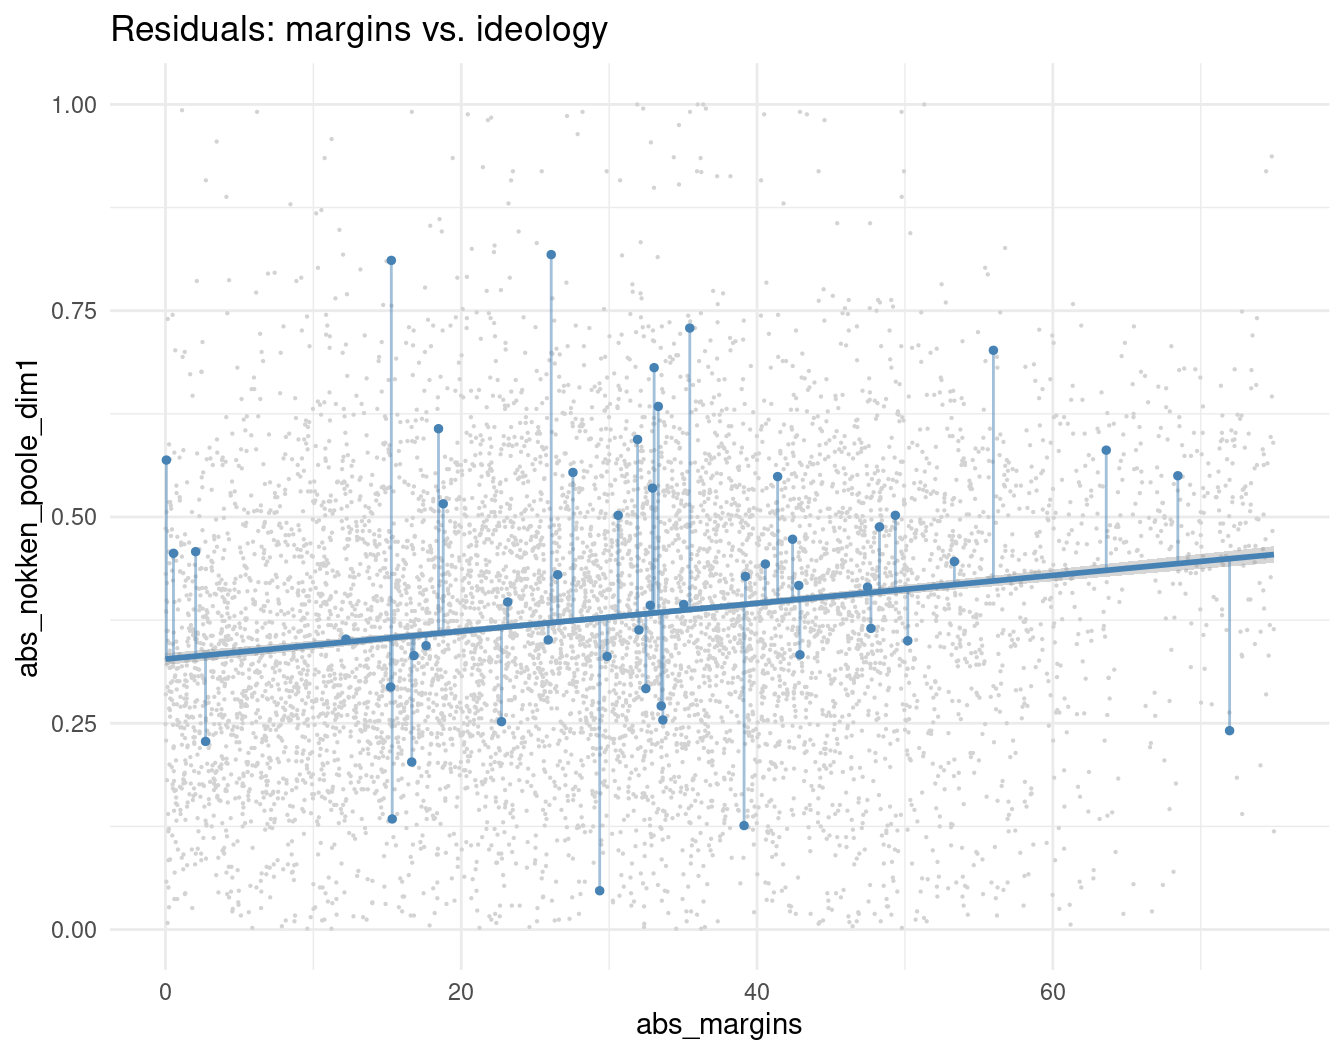
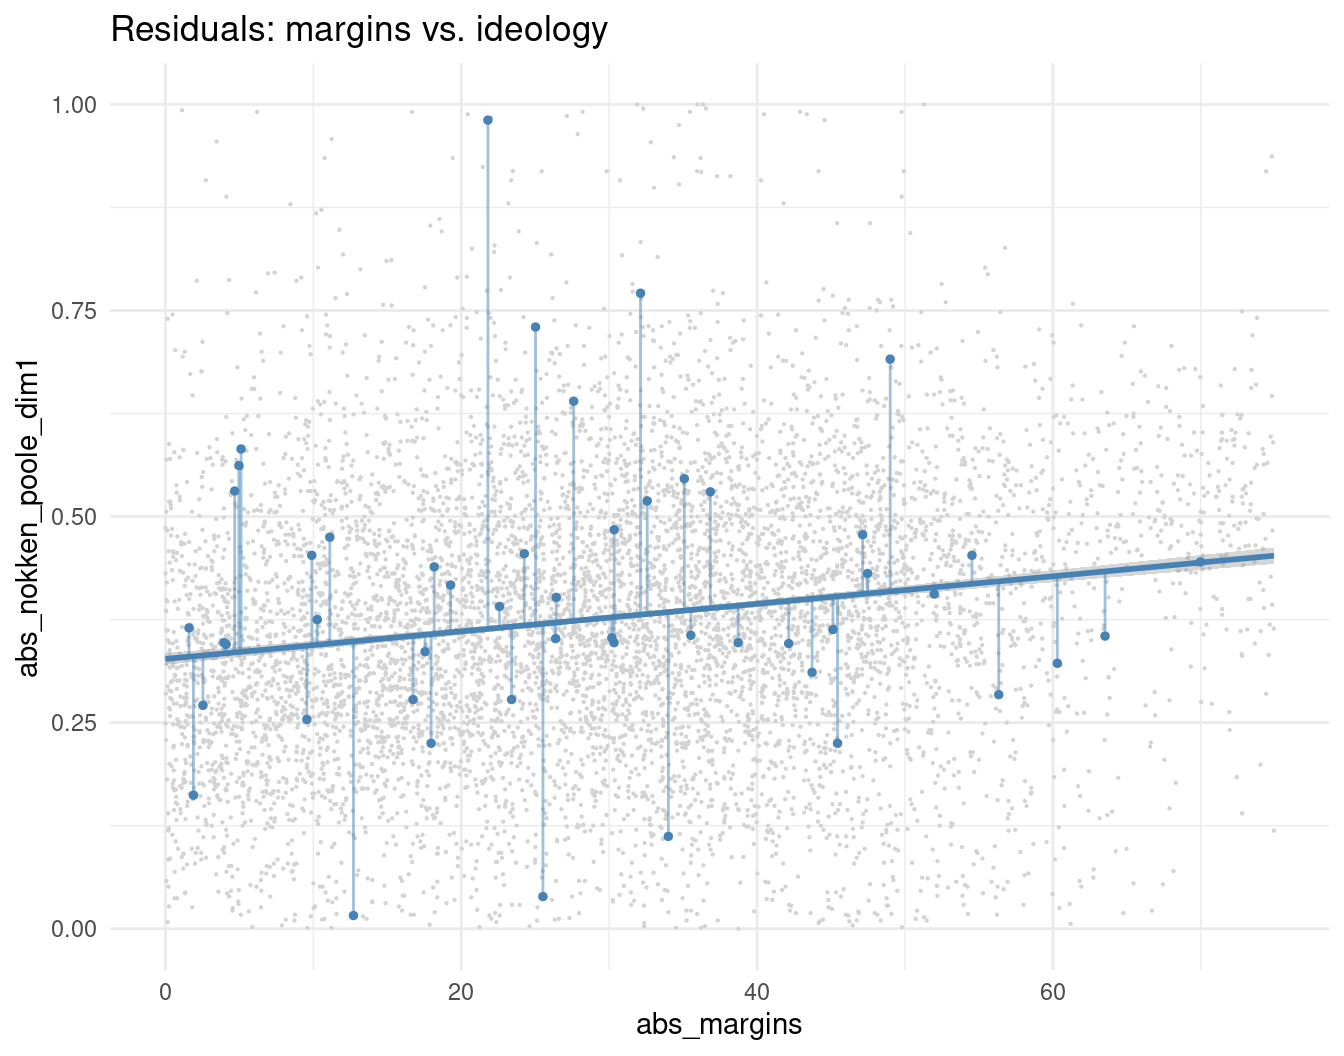
re

diff --git a/content/post/2020-07-19-and-other-long-serving-members-of-congress.html b/content/post/2020-07-19-and-other-long-serving-members-of-congress.html
@@ -53,7 +53,7 @@ menu: ''
 house_members &lt;- Rvoteview::download_metadata(type = &#39;members&#39;,
                                               chamber = &#39;house&#39;,
                                               congress = &#39;all&#39;) </code></pre>
-<pre><code>## [1] &quot;/tmp/RtmplXkuUB/Hall_members.csv&quot;</code></pre>
+<pre><code>## [1] &quot;/tmp/RtmpHSN5zx/Hall_members.csv&quot;</code></pre>
 <pre class="r"><code>x116 &lt;- house_members %&gt;%
   filter(congress == 116, chamber == &#39;House&#39;) %&gt;%
   select(icpsr, chamber)</code></pre>
@@ -67,7 +67,13 @@ house_members &lt;- Rvoteview::download_metadata(type = &#39;members&#39;,
   
   mutate(year = 2019 - (116-congress)*2,
          party_code = ifelse(party_code == 200, &#39;R&#39;, &#39;D&#39;),
-         age = year - born)</code></pre>
+         age = year - born) %&gt;%
+  
+  group_by(congress, state_abbrev) %&gt;%
+  mutate(n = length(district_code)) %&gt;%
+  ungroup() %&gt;%
+  mutate(district_code = ifelse(n == 1, 0, district_code)) %&gt;%
+  select(-n)</code></pre>
 </div>
 <div id="longest-serving-members-of-the-us-house" class="section level2">
 <h2>Longest-serving members of the US House</h2>
@@ -195,7 +201,7 @@ for_scatter %&gt;%
   slice(1) %&gt;%
   group_by(state_abbrev, district_code) %&gt;%
   spread(congress, bioguide_id)</code></pre>
-<p>A sample of the re-election portion of the data set is presented below. The first row summarizes the re-election event for South Carolina’s 3rd congressional district, where <strong><em>t<sub>i</sub></em></strong> is the 98th Congress and <strong><em>t<sub>i+1</sub></em></strong> the 99th Congress. Columns <code>t1</code> and <code>t2</code> denote bioguide ids for the representative of SC-03 in congresses 98 and 99, respectively. So, incumbent representative D000267 (Butler Derrick, Jr.) won re-election to the 99th congress, as denoted by a value of <code>1</code> in the <code>re_elect</code> column.</p>
+<p>A sample of the re-election portion of the data set is presented below. The first row summarizes the re-election event for Kentucky’s 4th congressional district, where <strong><em>t<sub>i</sub></em></strong> is the 97th Congress and <strong><em>t<sub>i+1</sub></em></strong> the 98th Congress. Columns <code>t1</code> and <code>t2</code> denote bioguide ids for the representative of SC-03 in congresses 97 and 98, respectively. So, incumbent representative S000669 (Marion Snyder) won re-election to the 98th congress, as denoted by a value of <code>1</code> in the <code>re_elect</code> column.</p>
 <p><em>Important methods note: no distinction is made here between losing an election and retiring, for example.</em></p>
 <pre class="r"><code>x &lt;- c(3:24)
 y &lt;- list()
@@ -214,7 +220,7 @@ house_transitions &lt;- lapply(1:length(y), function(j) {
          re_elect = ifelse(t1 == t2, &#39;1&#39;, &#39;0&#39;)) %&gt;%
   ungroup()</code></pre>
 <div id="htmlwidget-2" style="width:100%;height:auto;" class="datatables html-widget"></div>
-<script type="application/json" data-for="htmlwidget-2">{"x":{"filter":"none","data":[["SC","TN","IN","MA","MS"],[3,9,6,4,4],["D000267","F000262","M001189","F000339","P000601"],["D000267","C001068","M001189","F000339","P000601"],["98-99","109-110","114-115","107-108","112-113"],["1","0","1","1","1"]],"container":"<table class=\"display\">\n  <thead>\n    <tr>\n      <th>st<\/th>\n      <th>dc<\/th>\n      <th>t1<\/th>\n      <th>t2<\/th>\n      <th>trans<\/th>\n      <th>re_elect<\/th>\n    <\/tr>\n  <\/thead>\n<\/table>","options":{"dom":"t","scrollX":true,"columnDefs":[{"className":"dt-right","targets":1}],"order":[],"autoWidth":false,"orderClasses":false}},"evals":[],"jsHooks":[]}</script>
+<script type="application/json" data-for="htmlwidget-2">{"x":{"filter":"none","data":[["KY","NJ","CA","NY","MA"],[4,6,14,13,3],["S000669","P000034","E000215","R000053","B000576"],["S000669","P000034","E000215","E000297","M000312"],["97-98","113-114","106-107","114-115","104-105"],["1","1","1","0","0"]],"container":"<table class=\"display\">\n  <thead>\n    <tr>\n      <th>st<\/th>\n      <th>dc<\/th>\n      <th>t1<\/th>\n      <th>t2<\/th>\n      <th>trans<\/th>\n      <th>re_elect<\/th>\n    <\/tr>\n  <\/thead>\n<\/table>","options":{"dom":"t","scrollX":true,"columnDefs":[{"className":"dt-right","targets":1}],"order":[],"autoWidth":false,"orderClasses":false}},"evals":[],"jsHooks":[]}</script>
 </div>
 <div id="decades-residuals" class="section level3">
 <h3>/decades &amp; residuals</h3>
@@ -264,7 +270,7 @@ l1 &lt;- ggplot(fit1, aes(x = abs_margins, y = abs_nokken_poole_dim1)) +
   geom_smooth(method = &quot;lm&quot;, se = T, color = &quot;steelblue&quot;)
 
 
-set.seed(99)
+set.seed(119)
 fit2 &lt;- fit1 %&gt;% sample_n(50)
 
 l1 +
@@ -277,7 +283,7 @@ l1 +
 </div>
 <div id="results" class="section level3">
 <h3>/Results</h3>
-<p>Using logistic regression via <code>glm</code>, we fit our model below. Again, margins, NOMINATE scores, and residuals are all transformed to absolute values.</p>
+<p>Using logistic regression via <code>glm</code>, we fit our model below. Again, margins, NOMINATE scores, and residuals are all transformed to absolute values. N = 7,844.</p>
 <pre class="r"><code>dset$residuals &lt;- unname(fit$residuals)
 dset$party &lt;- as.factor(dset$party)
 dset$decade &lt;- as.factor(dset$decade)
@@ -330,13 +336,13 @@ p.value
 (Intercept)
 </td>
 <td style="text-align:right;background-color: #e4eef4 !important;">
-1.205
+1.203
 </td>
 <td style="text-align:right;background-color: #e4eef4 !important;">
-0.127
+0.126
 </td>
 <td style="text-align:right;background-color: #e4eef4 !important;">
-9.514
+9.579
 </td>
 <td style="text-align:right;background-color: #e4eef4 !important;">
 0.000
@@ -347,16 +353,16 @@ p.value
 decade80s
 </td>
 <td style="text-align:right;">
-0.223
+0.219
 </td>
 <td style="text-align:right;">
-0.118
+0.117
 </td>
 <td style="text-align:right;">
-1.887
+1.869
 </td>
 <td style="text-align:right;">
-0.059
+0.062
 </td>
 </tr>
 <tr>
@@ -364,16 +370,16 @@ decade80s
 decade90s
 </td>
 <td style="text-align:right;">
--0.136
+-0.138
 </td>
 <td style="text-align:right;">
-0.114
+0.113
 </td>
 <td style="text-align:right;">
--1.191
+-1.221
 </td>
 <td style="text-align:right;">
-0.234
+0.222
 </td>
 </tr>
 <tr>
@@ -381,16 +387,16 @@ decade90s
 decadeAughts
 </td>
 <td style="text-align:right;">
-0.033
+0.028
 </td>
 <td style="text-align:right;">
-0.117
+0.116
 </td>
 <td style="text-align:right;">
-0.281
+0.245
 </td>
 <td style="text-align:right;">
-0.779
+0.807
 </td>
 </tr>
 <tr>
@@ -398,16 +404,16 @@ decadeAughts
 decadeTeens
 </td>
 <td style="text-align:right;background-color: #fcdbc7 !important;">
--0.371
+-0.377
 </td>
 <td style="text-align:right;background-color: #fcdbc7 !important;">
-0.118
+0.117
 </td>
 <td style="text-align:right;background-color: #fcdbc7 !important;">
--3.154
+-3.230
 </td>
 <td style="text-align:right;background-color: #fcdbc7 !important;">
-0.002
+0.001
 </td>
 </tr>
 <tr>
@@ -415,16 +421,16 @@ decadeTeens
 partyRepublican Party
 </td>
 <td style="text-align:right;background-color: #fcdbc7 !important;">
--0.158
+-0.146
 </td>
 <td style="text-align:right;background-color: #fcdbc7 !important;">
-0.061
+0.060
 </td>
 <td style="text-align:right;background-color: #fcdbc7 !important;">
--2.597
+-2.425
 </td>
 <td style="text-align:right;background-color: #fcdbc7 !important;">
-0.009
+0.015
 </td>
 </tr>
 <tr>
@@ -432,13 +438,13 @@ partyRepublican Party
 congs_served
 </td>
 <td style="text-align:right;background-color: #fcdbc7 !important;">
--0.080
+-0.078
 </td>
 <td style="text-align:right;background-color: #fcdbc7 !important;">
 0.007
 </td>
 <td style="text-align:right;background-color: #fcdbc7 !important;">
--11.492
+-11.256
 </td>
 <td style="text-align:right;background-color: #fcdbc7 !important;">
 0.000
@@ -455,7 +461,7 @@ abs(margins)
 0.002
 </td>
 <td style="text-align:right;background-color: #e4eef4 !important;">
-12.073
+12.071
 </td>
 <td style="text-align:right;background-color: #e4eef4 !important;">
 0.000
@@ -466,13 +472,13 @@ abs(margins)
 abs(nokken_poole_dim1)
 </td>
 <td style="text-align:right;background-color: #e4eef4 !important;">
-0.702
+0.689
 </td>
 <td style="text-align:right;background-color: #e4eef4 !important;">
-0.188
+0.186
 </td>
 <td style="text-align:right;background-color: #e4eef4 !important;">
-3.737
+3.697
 </td>
 <td style="text-align:right;background-color: #e4eef4 !important;">
 0.000
@@ -483,16 +489,16 @@ abs(nokken_poole_dim1)
 abs(residuals)
 </td>
 <td style="text-align:right;background-color: #fcdbc7 !important;">
--0.906
+-0.929
 </td>
 <td style="text-align:right;background-color: #fcdbc7 !important;">
-0.290
+0.288
 </td>
 <td style="text-align:right;background-color: #fcdbc7 !important;">
--3.121
+-3.222
 </td>
 <td style="text-align:right;background-color: #fcdbc7 !important;">
-0.002
+0.001
 </td>
 </tr>
 </tbody>
